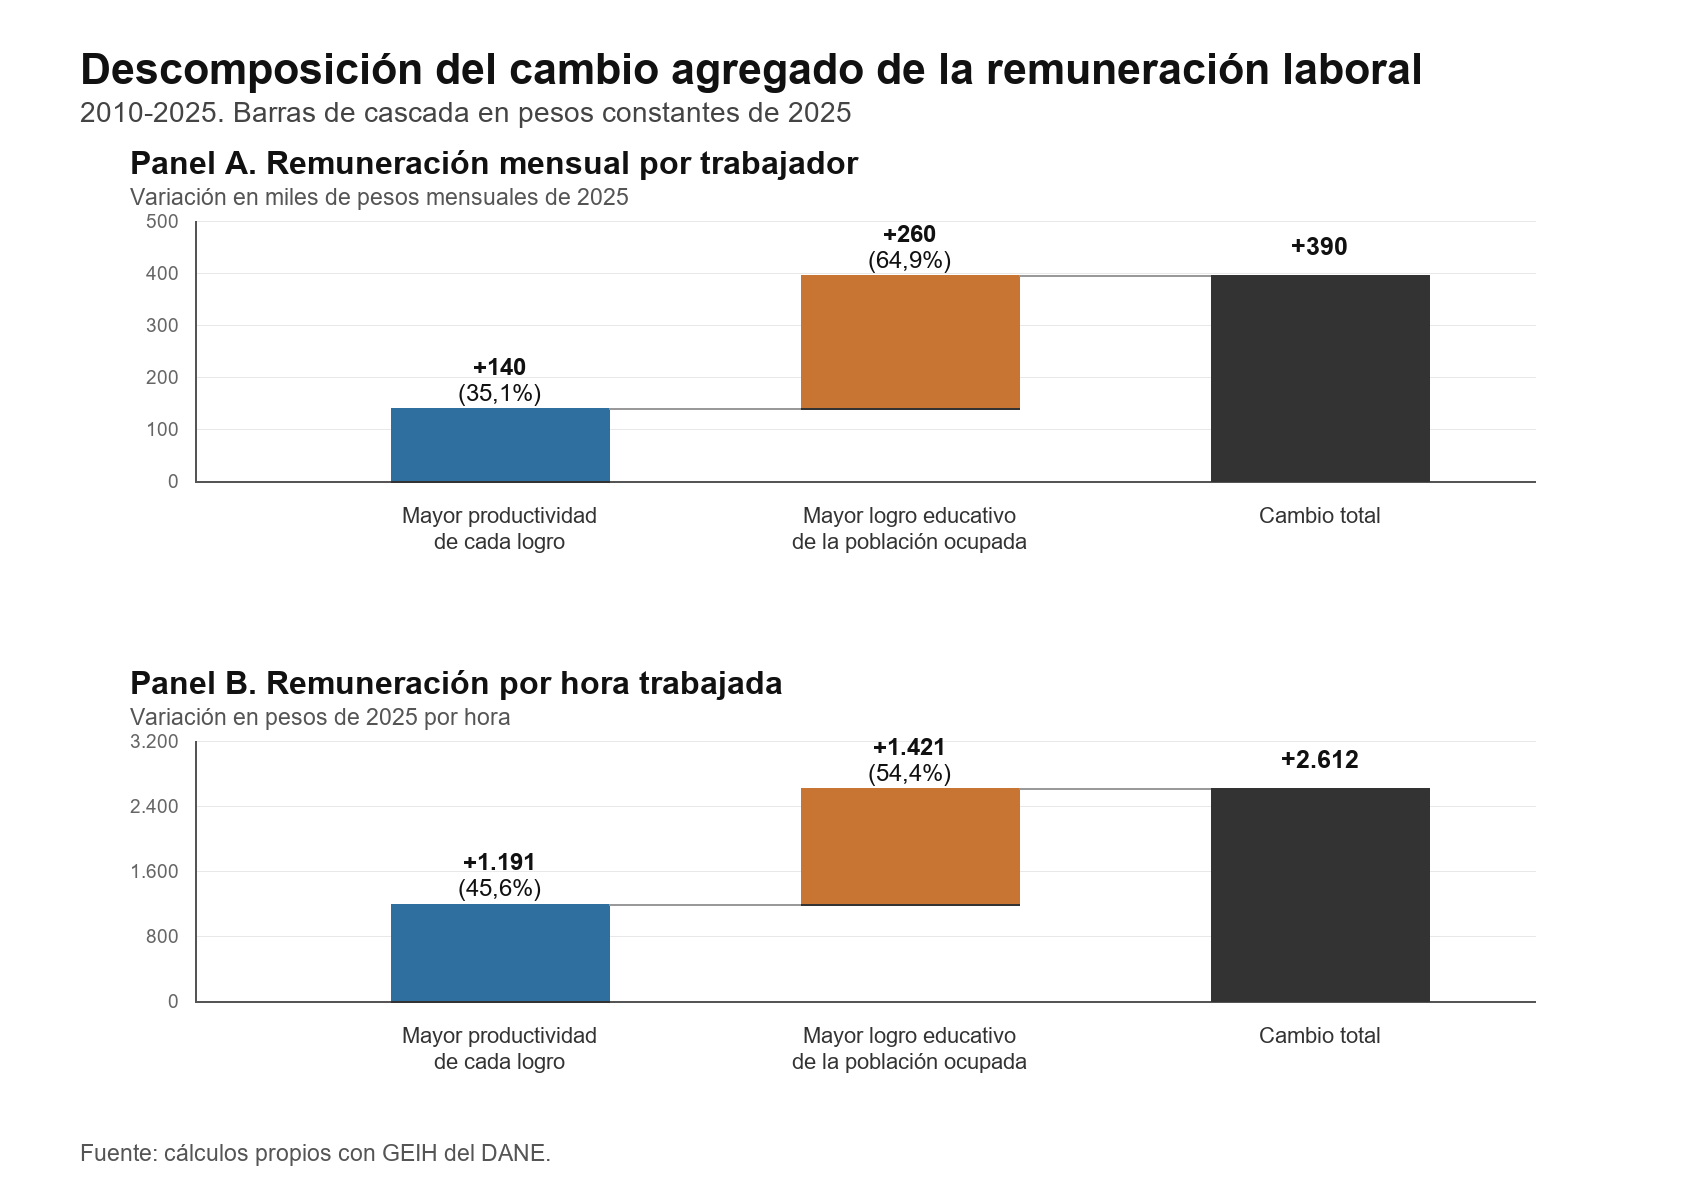
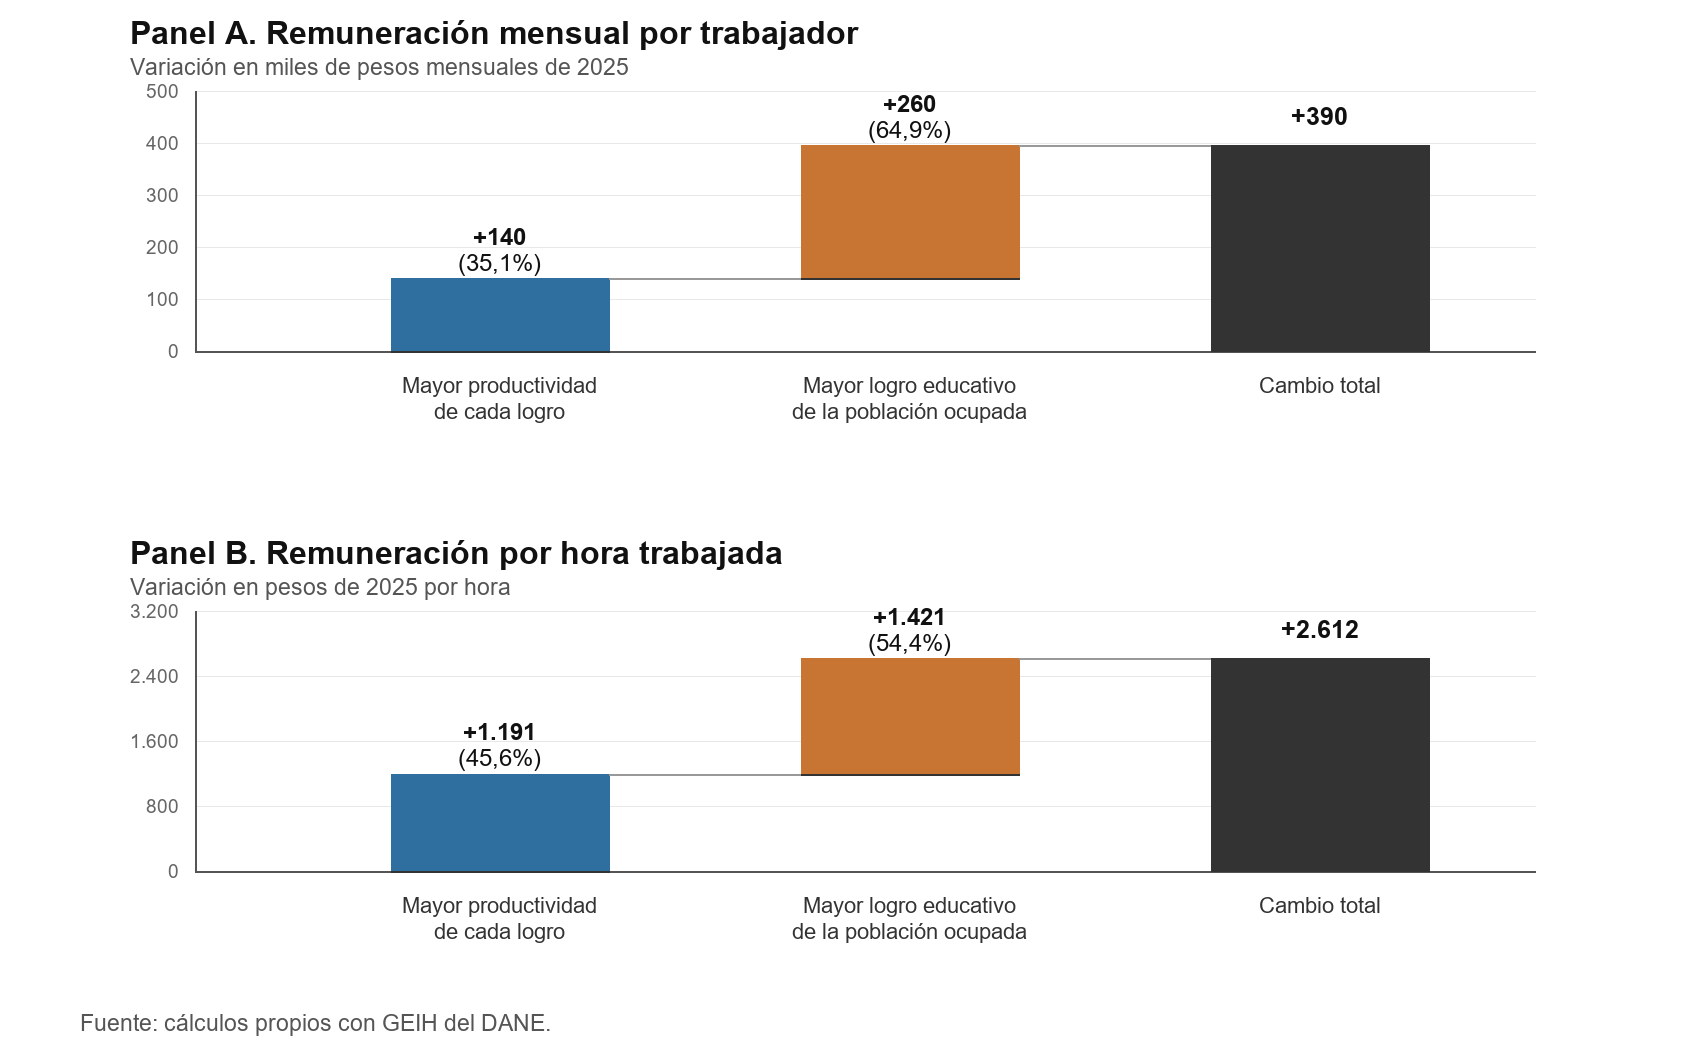
Ajusta cascada de descomposicion

diff --git a/Paper/sections/remuneracion_educacion_comparable_table.tex b/Paper/sections/remuneracion_educacion_comparable_table.tex
@@ -31,7 +31,7 @@ Universitaria o superior & 15,9 & 17,2 & 0,5\% & 3,7x & 3,2x \\
 
 \begin{table}[H]
 \centering
-\caption{Descomposición contable del cambio agregado de la remuneración laboral, 2010--2025}
+\caption{Descomposición de la variación anual en la remuneración laboral 2010--2025}
 \label{tab:descomposicion_remuneracion_educacion}
 \includegraphics[width=0.98\textwidth]{Paper/figures/fig_descomposicion_remuneracion_educacion_cascada.png}
 \caption*{\footnotesize Nota: el Panel A muestra la variación de la remuneración mensual por trabajador en miles de pesos mensuales de 2025. El Panel B muestra la variación de la remuneración por hora trabajada en pesos de 2025 por hora. Las etiquetas de los componentes reportan el valor absoluto y, entre paréntesis, el porcentaje del cambio total. ``Mayor productividad de cada logro educativo'' mide el aporte de los cambios de remuneración dentro de primaria o menos, secundaria y universitaria o superior, usando ponderadores promedio de 2010 y 2025. ``Mayor logro educativo de la población ocupada'' mide el aporte de los cambios en el peso relativo de esos grupos, usando remuneraciones promedio de los dos años. Las sumas pueden no coincidir por redondeo. Fuente: cálculos propios con GEIH del DANE.}